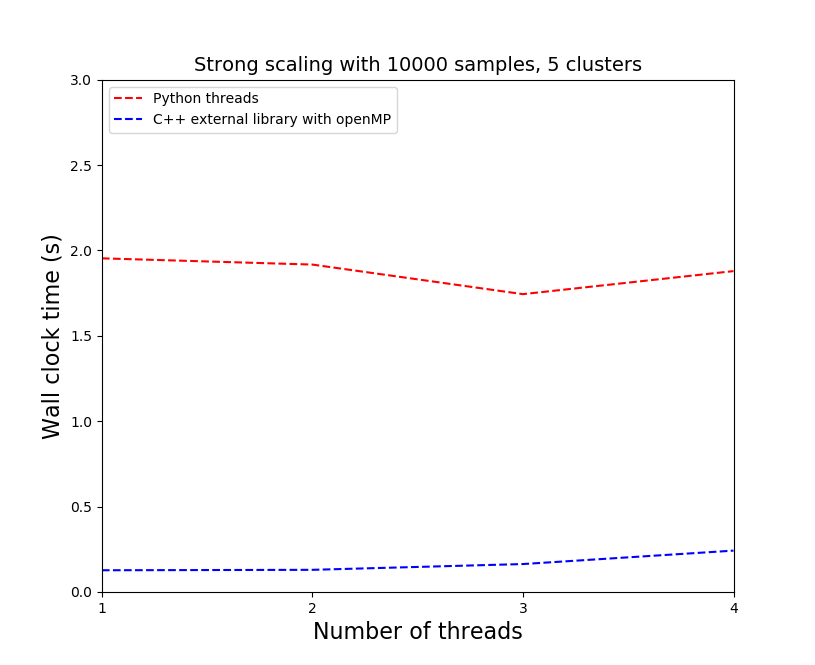
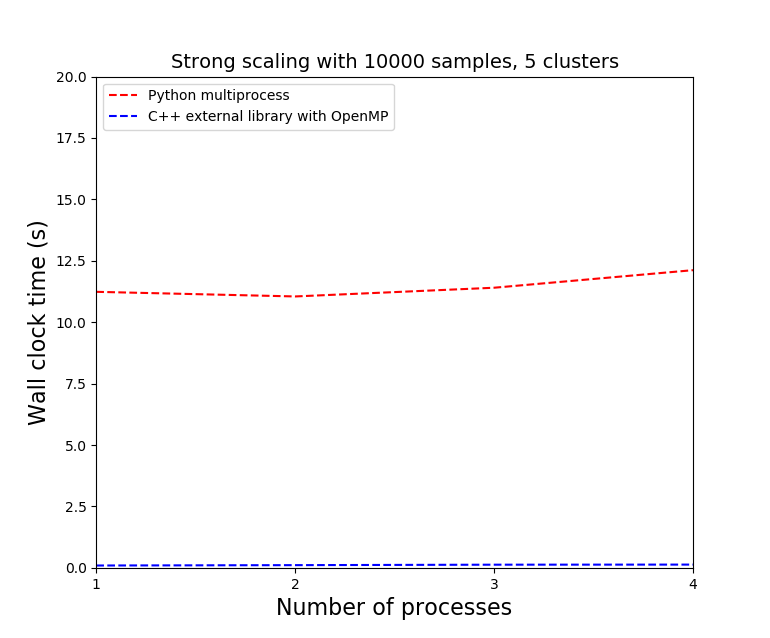
adjust figure

diff --git a/KMeansMultiProcess.py b/KMeansMultiProcess.py
@@ -252,7 +252,7 @@ def plot_strong_scaling(n_samples, num_clusters, max_num_processes):
     plt.xlabel("Number of processes", fontsize=16)
     plt.ylabel("Wall clock time (s)", fontsize=16)
     plt.xlim(1, max_num_processes)
-    plt.ylim(0, 12)
+    plt.ylim(0, 20)
     import matplotlib.ticker as mticker
     plt.gca().xaxis.set_major_locator(mticker.MultipleLocator(1))
     plt.legend(loc=2)
